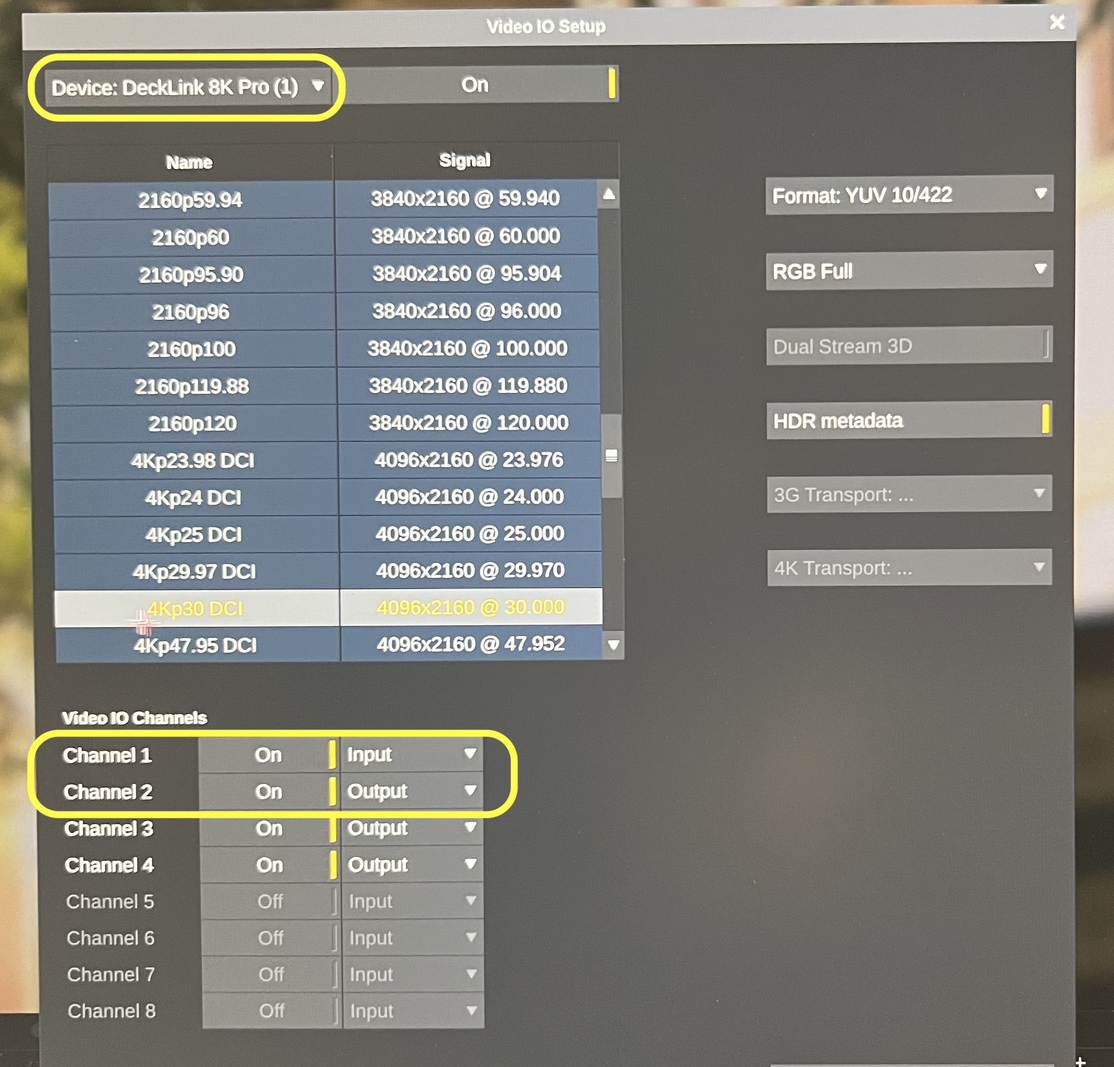
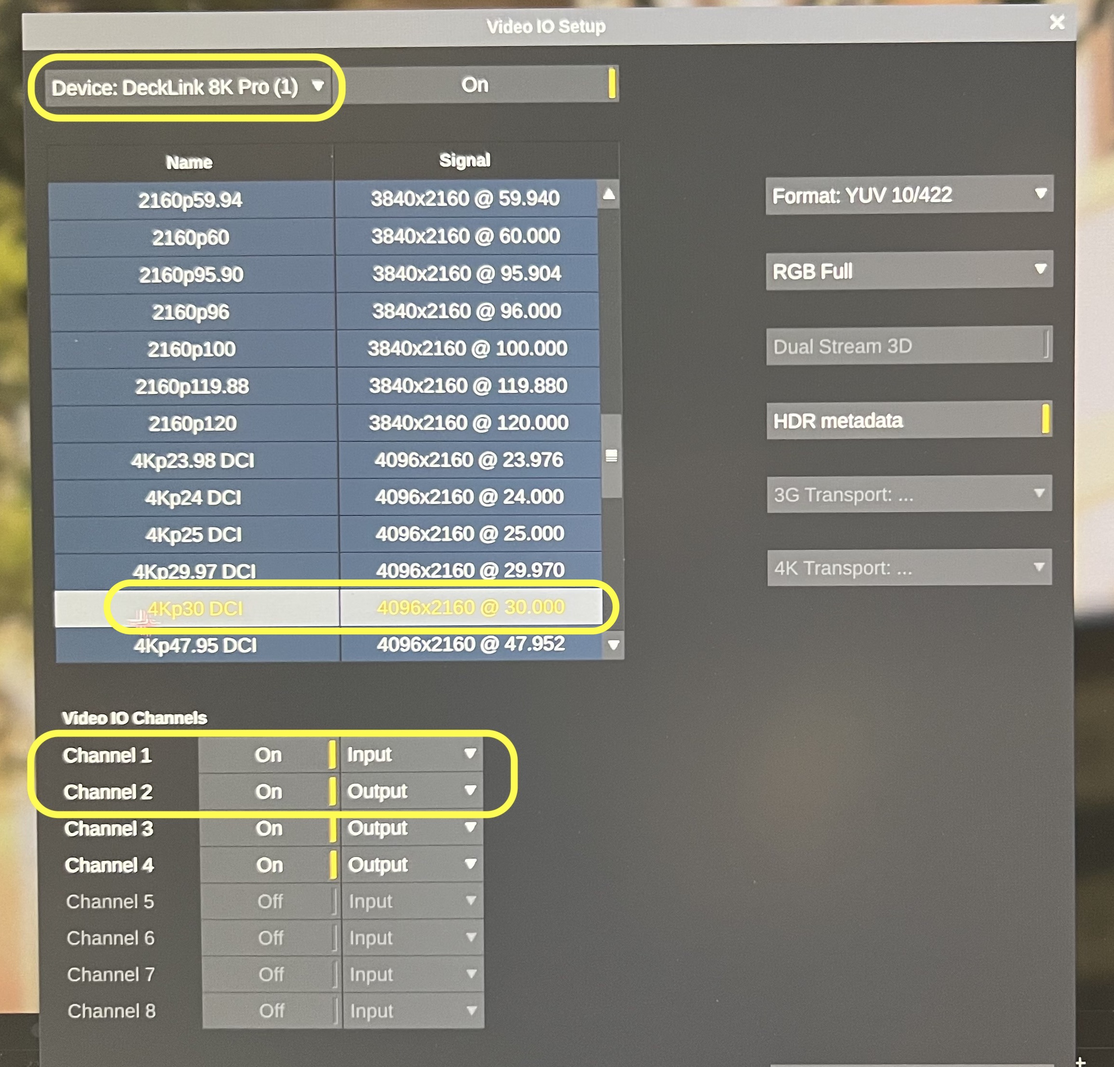
adding ue5 led wall walk through

Changed region(s): [[0.0935, 0.5296, 0.5608, 0.623]]

diff --git a/timecode-sync/README.md b/timecode-sync/README.md
@@ -63,7 +63,7 @@ Now select **Video IO..**.
 
 ##### `Step 7.`\|`BTS`| :small_orange_diamond: :small_blue_diamond: :small_blue_diamond:
 
-Select the **DeckLink 8K Pro** as the device that we are inputting.  The camera is wired into channel 1.  Turn this **On** and set it as the **Input**. Our second channel is going from this decklink to the **BlackMagic** card in the operator PC that needs this signal to read the timecode.  So we set channel 2 to **On** and set it as **Output**
+Select the **DeckLink 8K Pro** as the device that we are inputting.  The camera is wired into channel 1.  Turn this **On** and set it as the **Input**. Our second channel is going from this decklink to the **BlackMagic** card in the operator PC that needs this signal to read the timecode.  So we set channel 2 to **On** and set it as **Output**. We also set this to our camera format which is **4Kp30 DCI at 4096 x 2160**.
 
 ![set input and output](images/forwardVideo.jpg)
 
